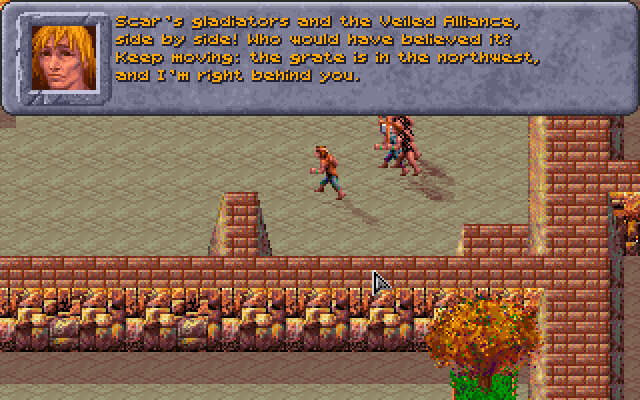
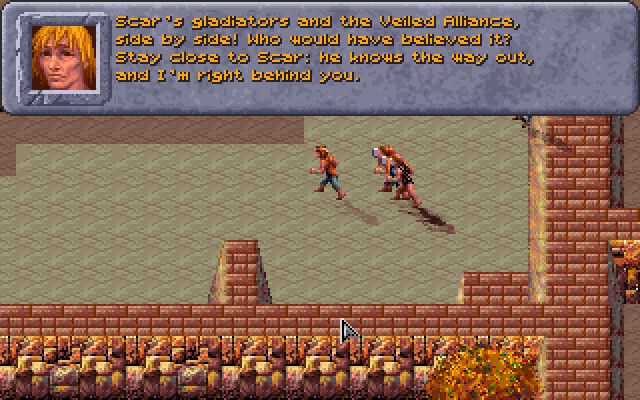
Semyon's breakout line: he follows Scar, not a way he couldn't know
He has never been in the slave pens on this path (from the arena's post
straight to the breakout), so he can't know where the grate is: Scar
does.

Claude-Session: https://claude.ai/code/session_01BNiWkhyZSJPYsN3zRrweVp

diff --git a/darksun-companion/dscompanion/semyon.py b/darksun-companion/dscompanion/semyon.py
@@ -203,7 +203,7 @@ def conversation() -> bytes:
 
     def breaking_out():
         s.say("Scar's gladiators and the Veiled Alliance, side by side! Who would have believed it? "
-              "Keep moving: the grate is in the northwest, and I'm right behind you.")
+              "Stay close to Scar: he knows the way out, and I'm right behind you.")
         s.page()
 
     def at_home():

diff --git a/darksun-companion/README.md b/darksun-companion/README.md
@@ -1009,12 +1009,12 @@ alarms!"), Scar and his henchmen come along to the slave pens and Semyon is left
 behind. With the Ledger, if he is still in the arena, alive and on the party's
 side, he comes too: he stands beside Scar's men in the pens and fights the guards
 with them, on the party's side. Talked to then, he says: "Scar's gladiators and
-the Veiled Alliance, side by side! Who would have believed it? Keep moving: the
-grate is in the northwest, and I'm right behind you." He isn't made one of the
+the Veiled Alliance, side by side! Who would have believed it? Stay close to
+Scar: he knows the way out, and I'm right behind you." He isn't made one of the
 pens' slaves while the escape lasts, and once the party is out through the
 grate, he is gone with everyone else.
 
-![The slave pens during the escape: Semyon, with his portrait, telling the party to make for the grate](docs/semyon-escape.png)
+![The slave pens during the escape: Semyon, with his portrait, telling the party to stay close to Scar](docs/semyon-escape.png)
 
 How: the arena's script 3 moves Scar and his henchman to the pens (5Eh to region
 41) when the party reaches the west exit after Scar's plan is agreed. In the
